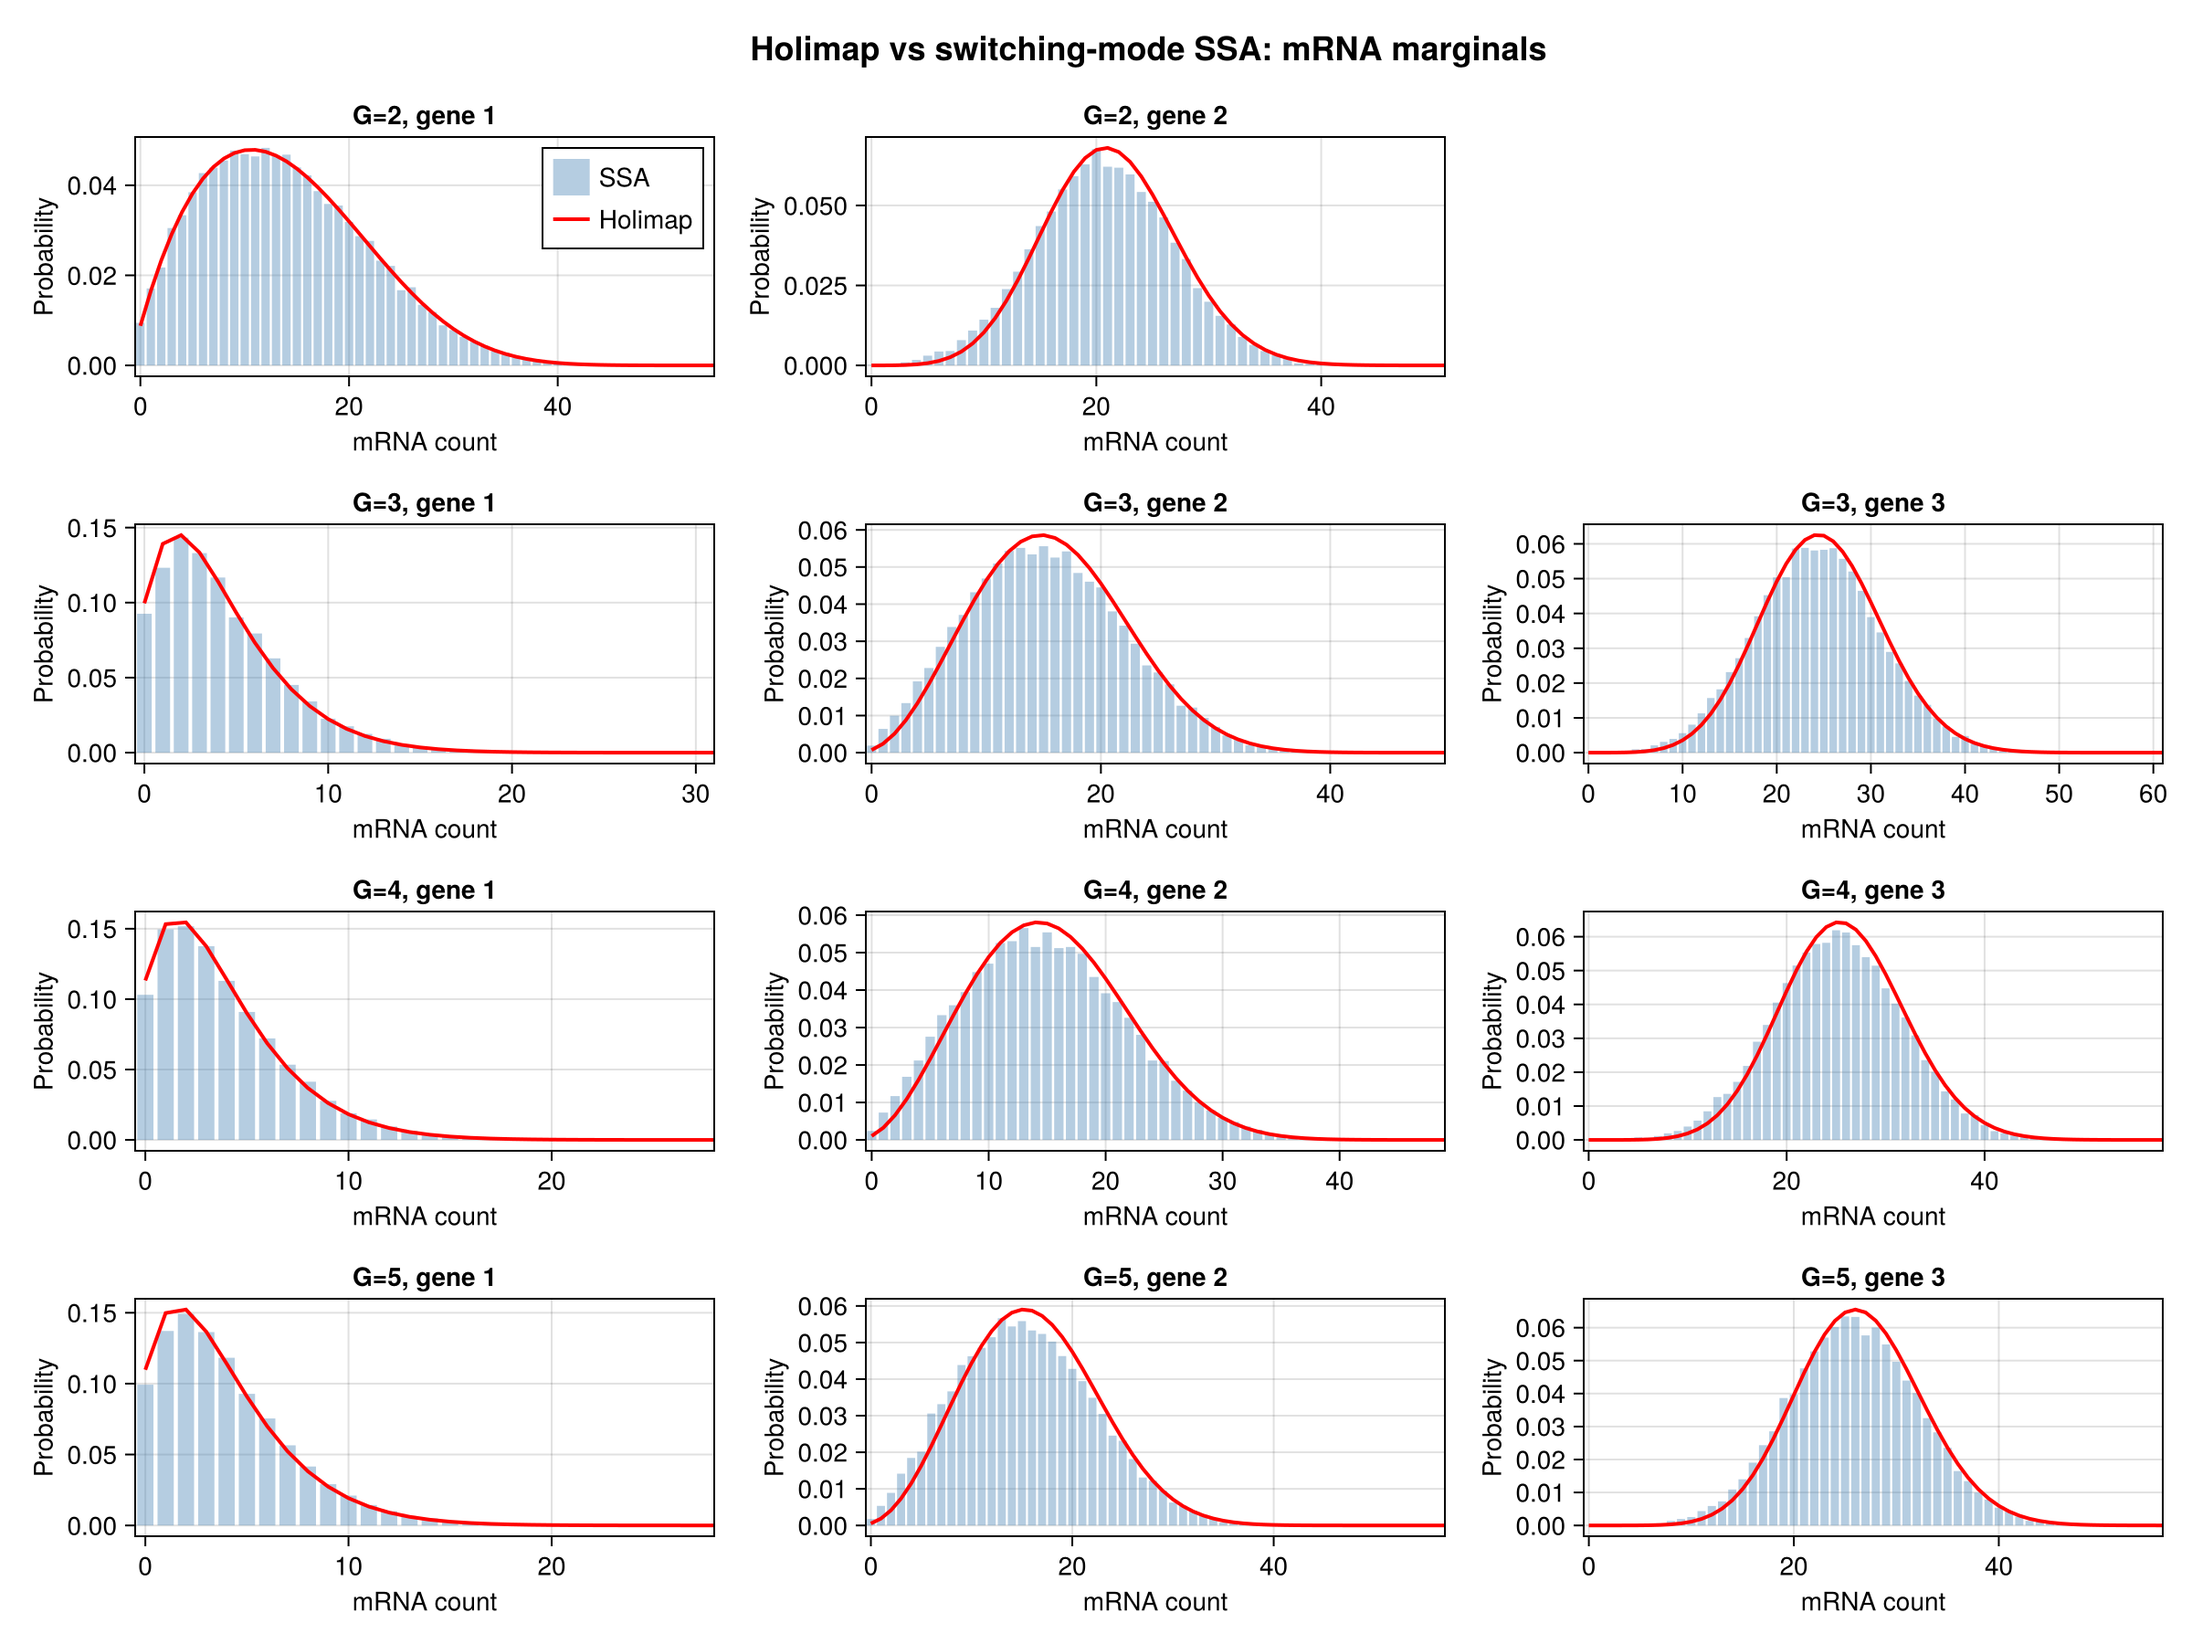
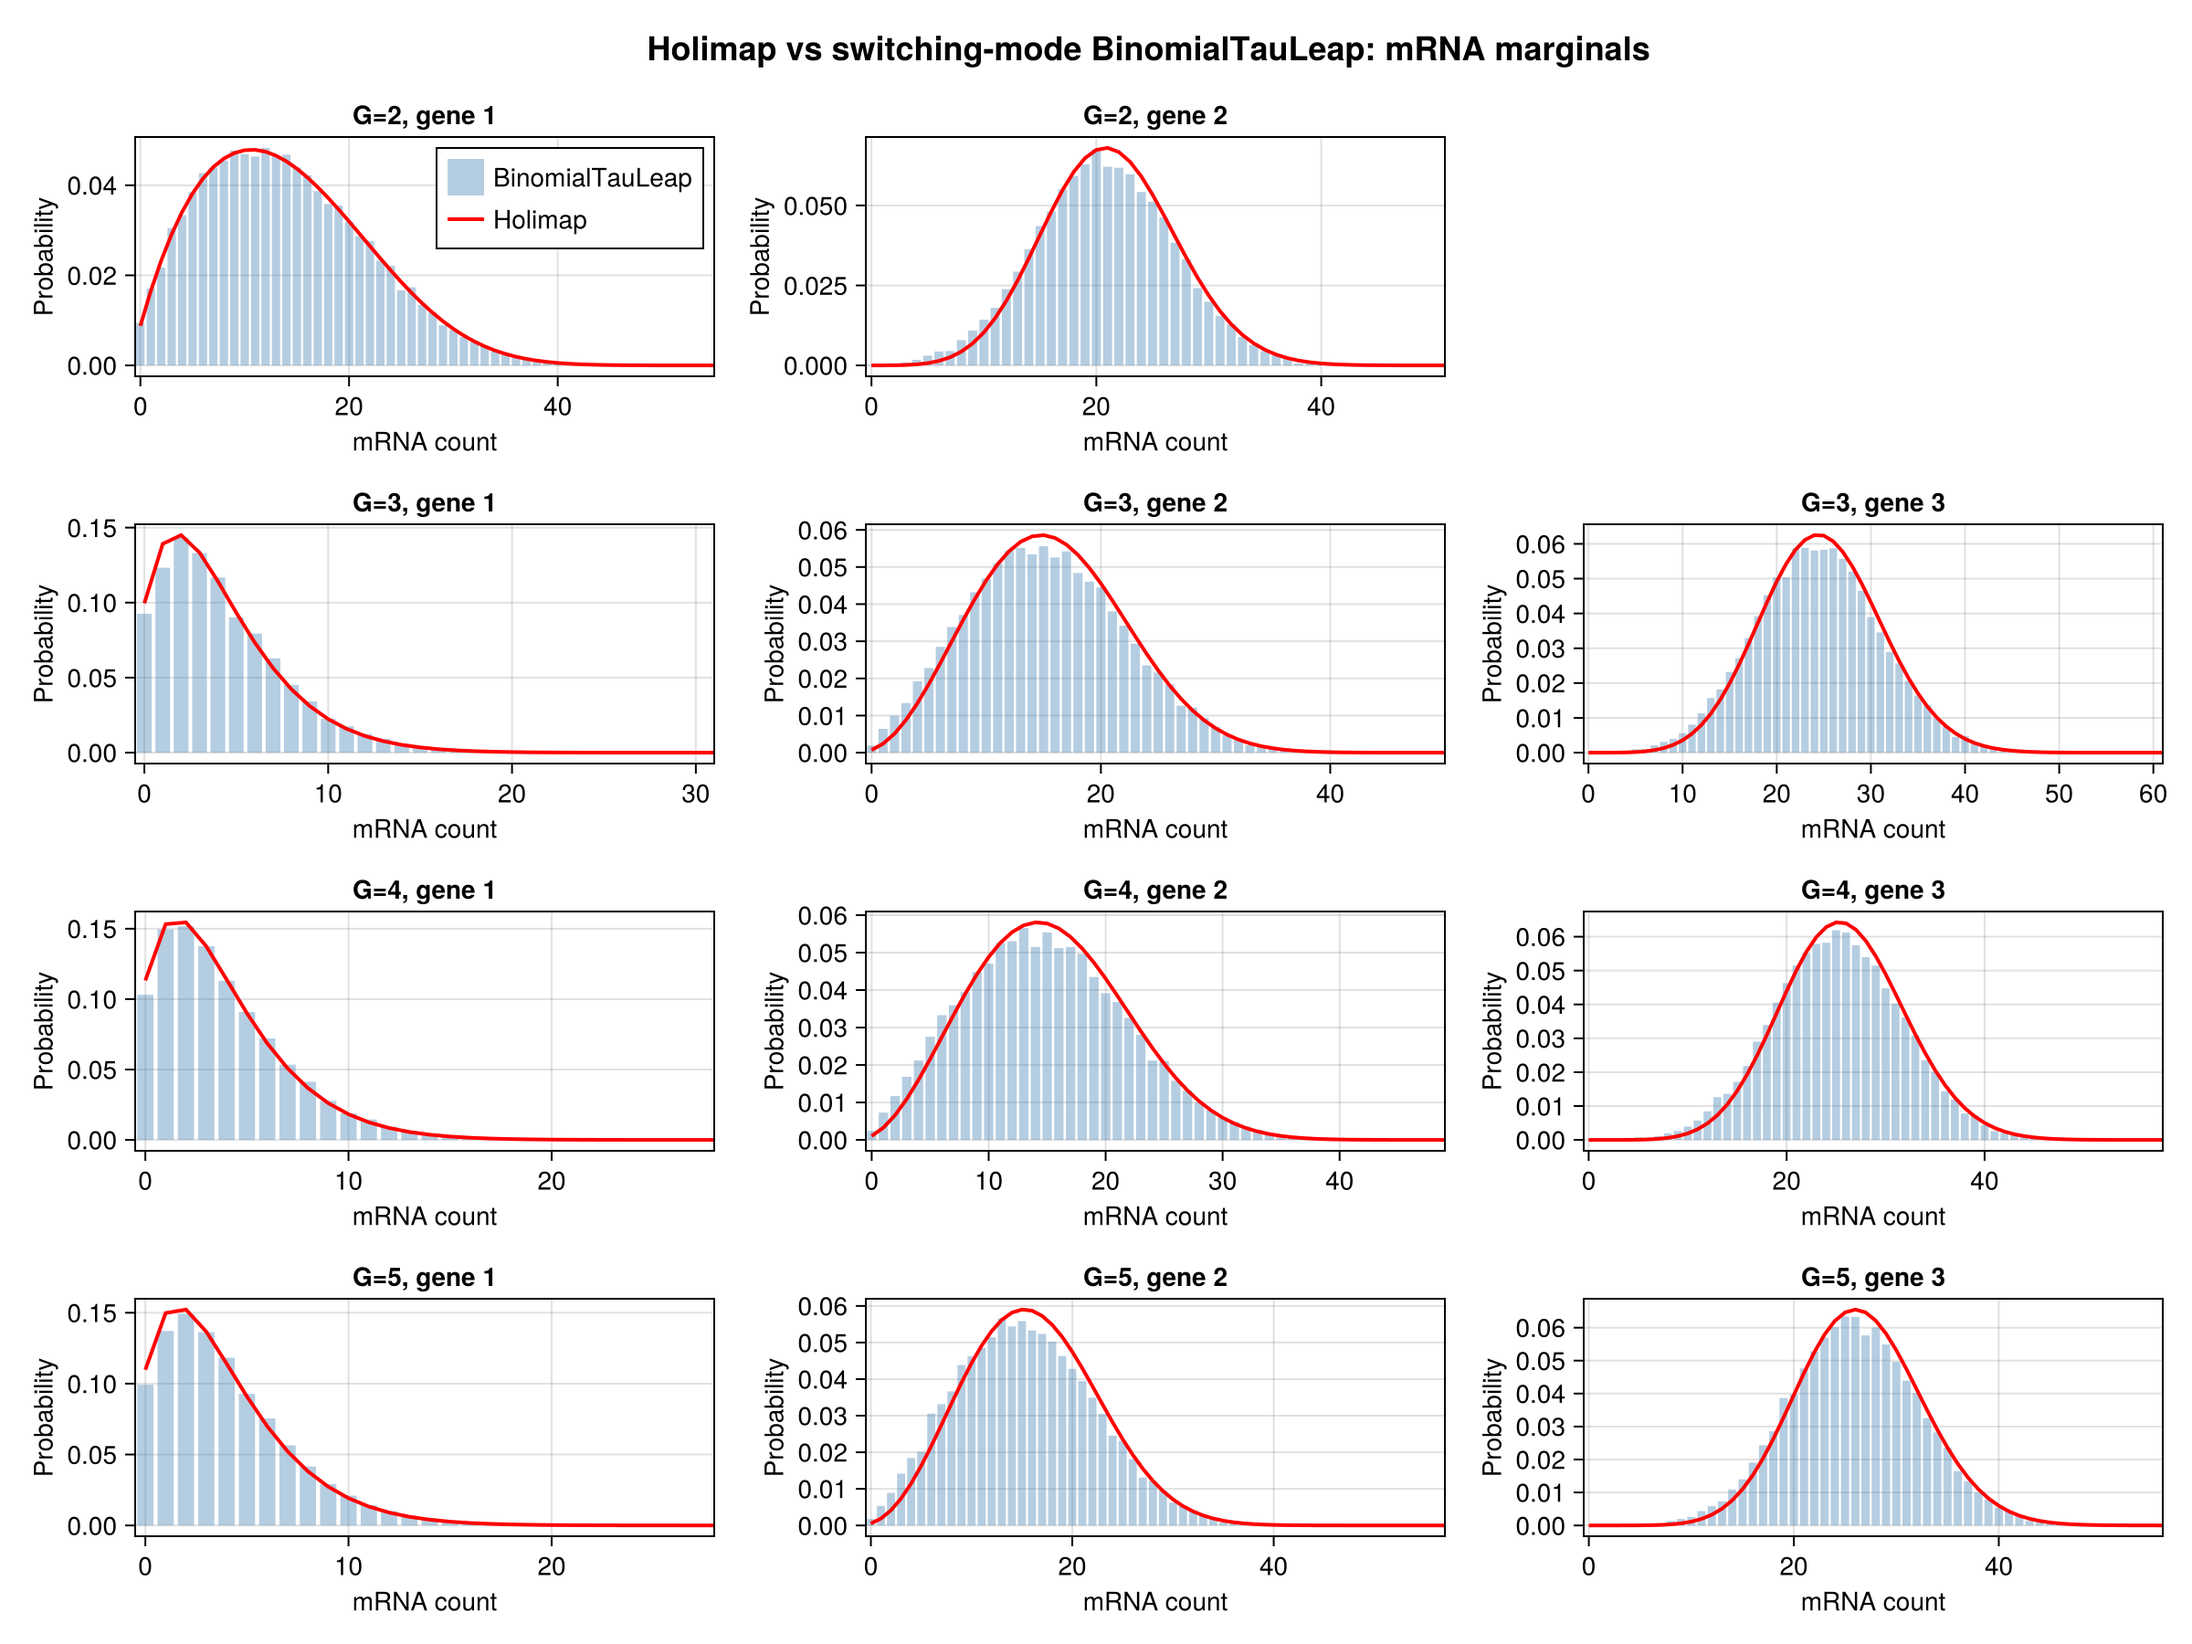
Fix labels: SSA → BinomialTauLeap in figure, README, and experiment

Changed region(s): [[0.3125, 0.0, 0.75, 0.0622], [0.1875, 0.0933, 0.3125, 0.1556]]

diff --git a/README.md b/README.md
@@ -124,11 +124,11 @@ Four parameter regimes are tested covering the full range of telegraph behaviour
 
 ### Multi-gene steady state (Holimap)
 
-![Holimap analytical marginals vs switching-mode SSA for G=2-5 networks](figures/holimap_validation.png)
+![Holimap analytical marginals vs switching-mode BinomialTauLeap for G=2-5 networks](figures/holimap_validation.png)
 
 For multi-gene networks with switching-rate regulation, the `holimap_marginals` function computes semi-analytical per-gene marginal mRNA distributions using the 2nd-order Holimap method (Cao, Luo & Grima 2024). In the switching-rate model, regulation enters through protein-dependent promoter switching rates rather than transcription rates: activators increase the OFF-to-ON rate and repressors increase the ON-to-OFF rate. For each gene, Holimap iteratively solves for effective telegraph parameters via fixed-point iteration with a 2nd-order moment closure that accounts for the variance of regulating proteins through the Taylor expansion E[h(p)] = h(mu) + 0.5 h''(mu) sigma^2. The final per-gene marginals are computed from the converged effective parameters using the exact Peccoud-Ycart telegraph distribution. For a single unregulated gene, Holimap exactly recovers `telegraph_distribution`.
 
-Validation against switching-mode SSA (20000 cells) for chain-regulation networks with G=2-5 genes:
+Validation against switching-mode BinomialTauLeap (20000 cells) for chain-regulation networks with G=2-5 genes:
 
 | G | Max mean error | Max variance error | Max KS statistic |
 | --- | --- | --- | --- |
